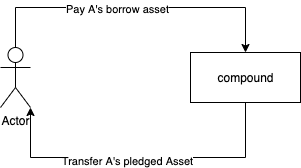
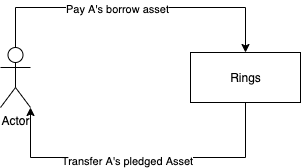
update design documents

Changed region(s): [[0.7176, 0.4167, 0.9269, 0.506]]

diff --git a/docs/design.md b/docs/design.md
@@ -2,7 +2,7 @@
 
 ## Architecture
 
-Compound is an implementation of MTG and a parachain of Mixin network.
+Rings is an implementation of MTG and a parachain of Mixin network.
 
 ![](images/architecture.png)
 
@@ -13,8 +13,8 @@ Compound is an implementation of MTG and a parachain of Mixin network.
 
 #### MTG system data flow
 * The user transfers a payment(UTXO) that carries business data to the Mixin network.
-* Compound syncs the outputs(UTXO) by parsing the business data(in output.memo)
-* Compound dispatchs the business action(included in business data) and processes each action(supply, borrow...)
+* Rings syncs the outputs(UTXO) by parsing the business data(in output.memo)
+* Rings dispatchs the business action(included in business data) and processes each action(supply, borrow...)
 
 ![](images/workflow.png)
 
@@ -26,12 +26,12 @@ In MTG system, There are two main roles, one is `Payee`, and the another is `cas
 * `cashier` spending the token, transfering the token to user
 ![](images/f_cashier.png)
 
-#### Compound actions
+#### Rings actions
 
 * `Supply`, Suppose users supply the underlying token `ETH` and gain the equity token `cETH`
   ![](images/tl_supply.png)
 
-* `Pledge`, Suppose users pledge the equity token `cETH`, meains that users should pay `cETH` to the compound system
+* `Pledge`, Suppose users pledge the equity token `cETH`, meains that users should pay `cETH` to the Rings system
   ![](images/tl_pledge.png)
 
 * `Unpledge`, Suppose users unpledge the equity token `cETH`, meains that users should pay some gas `CNB` and will get the equity token `cETH` back
